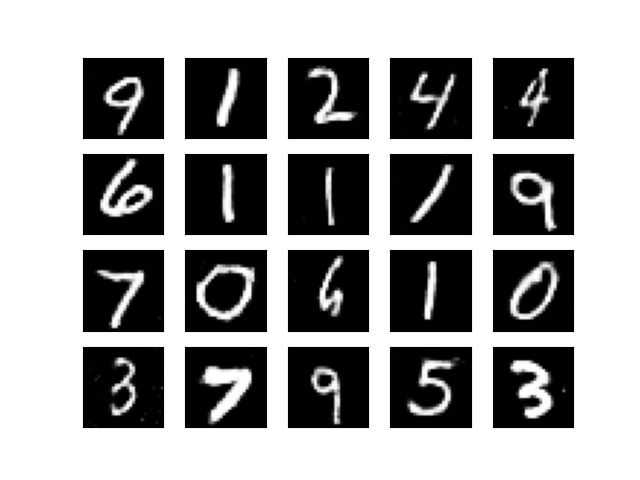
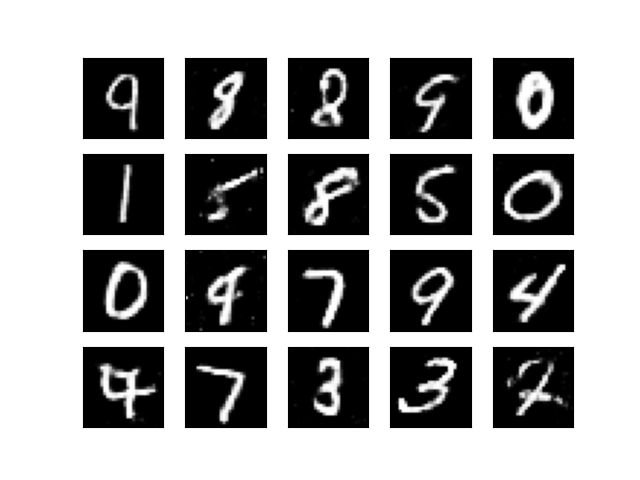
重みの初期値変更

diff --git a/train.py b/train.py
@@ -9,7 +9,7 @@ import matplotlib.pyplot as plt
 # データセットの定義 (訓練データの正規化、ラベルのone-hot-vec化)
 
 transform = transforms.Compose([transforms.ToTensor(),
-                                lambda x: x.reshape((28*28)),
+                                lambda x: x.reshape((28 * 28)),
                                 lambda x: (x - 0.5) * 2])
 
 target_transform = lambda x: torch.eye(10)[x]
@@ -23,6 +23,17 @@ trainloader = torch.utils.data.DataLoader(trainset, batch_size=batch_size, shuff
 # モデル定義
 generator = Generator()
 discriminator = Discriminator()
+
+# 重みの初期化
+def init_weights(m):
+    if type(m) == nn.Linear:
+        nn.init.normal_(m.weight,0,0.01)
+
+generator.apply(init_weights)
+discriminator.apply(init_weights)
+
+
+
 if torch.cuda.is_available():
     discriminator = discriminator.cuda()
     # discriminator = nn.DataParallel(discriminator)
@@ -34,28 +45,30 @@ if torch.cuda.is_available():
 loss_cross = nn.BCELoss()
 
 # 最適化アルゴリズム定義
-optimizer_d = optim.Adam(discriminator.parameters(), lr=0.0001,betas=(0.5, 0.999))
-optimizer_g = optim.Adam(generator.parameters(), lr=0.0002,betas=(0.5, 0.999))
-epochs=int(input("epochs:"))
+optimizer_d = optim.Adam(discriminator.parameters(), lr=0.0001, betas=(0.5, 0.999))
+optimizer_g = optim.Adam(generator.parameters(), lr=0.0002, betas=(0.5, 0.999))
+epochs = int(input("epochs:"))
 
 
 def schedule_func(epoch):
-    middle=epochs//2
-    if epoch<middle:
+    middle = epochs // 2
+    if epoch < middle:
         return 1
-    return (epochs-epoch)/middle
+    return (epochs - epoch) / middle
 
-scheduler_d = optim.lr_scheduler.LambdaLR(optimizer_d, lr_lambda = schedule_func)
-scheduler_g = optim.lr_scheduler.LambdaLR(optimizer_g, lr_lambda = schedule_func)
+
+scheduler_d = optim.lr_scheduler.LambdaLR(optimizer_d, lr_lambda=schedule_func)
+scheduler_g = optim.lr_scheduler.LambdaLR(optimizer_g, lr_lambda=schedule_func)
+
 
 # ----------------------------------------------------------------------------------------------
 
 # 訓練アルゴリズム
 def train_discriminator(generator, discriminator, data):
-    z=torch.rand((batch_size, 100))
+    z = torch.rand((batch_size, 100))
     if torch.cuda.is_available():
-        z=z.cuda()
-        data=data.cuda()
+        z = z.cuda()
+        data = data.cuda()
     fake = generator(z)
     prob_fake = discriminator(fake)
     prob_data = discriminator(data)
@@ -77,7 +90,7 @@ def train_discriminator(generator, discriminator, data):
 
 
 def train_generator(generator, discriminator):
-    z=torch.rand((batch_size, 100))
+    z = torch.rand((batch_size, 100))
     if torch.cuda.is_available():
         z = z.cuda()
     fake = generator(z)
@@ -95,6 +108,7 @@ def train_generator(generator, discriminator):
     optimizer_g.step()
 
     return loss_g.item()
+
 
 def train(generator, discriminator, epochs):
     loss_d_list = []
@@ -114,16 +128,18 @@ def train(generator, discriminator, epochs):
         scheduler_d.step()
     return loss_d_list, loss_g_list
 
+
 # ----------------------------------------------------------------------------------------------
 # 実際の処理
-loss_d_list,loss_g_list=train(generator, discriminator, epochs)
+loss_d_list, loss_g_list = train(generator, discriminator, epochs)
 
 # ----------------------------------------------------------------------------------------------
 # 可視化
 import numpy as np
-x=np.arange(epochs)
-plt.plot(x,loss_d_list,"r",label="d_loss")
-plt.plot(x,loss_g_list,"g",label="g_loss")
+
+x = np.arange(epochs)
+plt.plot(x, loss_d_list, "r", label="d_loss")
+plt.plot(x, loss_g_list, "g", label="g_loss")
 plt.savefig("loss.png")
 # ----------------------------------------------------------------------------------------------
 # generator保存

diff --git a/model.py b/model.py
@@ -60,5 +60,12 @@ class Discriminator(nn.Module):
         return prob
 
 # import torchsummary
-# generator=Discriminator()
+def init_weights(m):
+    if type(m) == nn.Linear:
+        nn.init.normal_(m.weight,0,0.01)
+
+generator=Generator()
+generator.apply(init_weights)
+
+
 # torchsummary.summary(generator, (28*28,))
